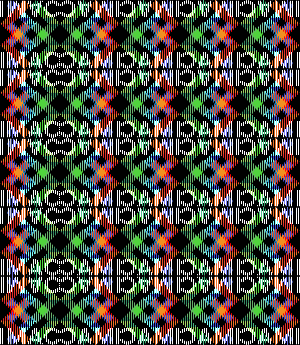
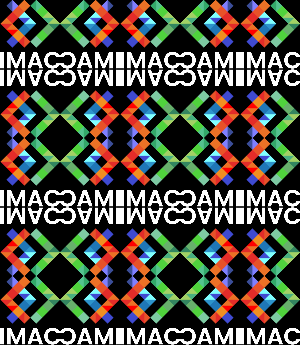
Mercredi

diff --git a/src/main.cpp b/src/main.cpp
@@ -1,5 +1,6 @@
 #include <sil/sil.hpp>
 #include <cmath>
+#include <complex>
 #include "random.hpp"
 
 void makeItGreen(sil::Image& image){
@@ -301,45 +302,233 @@ void mosaiqueMiroir(sil::Image& image, int coef) {
     int counterY{0};
 
     for (int x = 0; x < image.width(); x++) {
+        
+        int x2 = x % width;
+
         for (int y = 0; y < image.height(); y++) {
 
-            int x2 = x % width;
             int y2 = y % height;
             
-            if (counterX % 2 == 0 && counterY%2 == 0) {
-                new_image.pixel(x, y) = image.pixel(x2 * coef, y2 * coef);
+            int real_x = x2 * coef;
+            if (counterX % 2 == 1) {
+                real_x = (width - 1 - x2) * coef;
             }
 
-            else if (counterX %2 != 0 && counterY%2 == 0) {
-                int mirror_x = (width - 1 - x2) * coef;  
-                int mirror_y = y2 * coef;  
-                new_image.pixel(x, y) = image.pixel(mirror_x, mirror_y);
-            }
-            
-            else if (counterX %2 == 0 && counterY%2 != 0){
-                int mirror_x = x2*coef; 
-                int mirror_y = (height - 1 - y2) * coef;  
-                new_image.pixel(x, y) = image.pixel(mirror_x, mirror_y);
-            }
-            
-            else {
-                int mirror_x = (width - 1 - x2) * coef;  
-                int mirror_y = (height - 1 - y2) * coef; 
-                new_image.pixel(x, y) = image.pixel(mirror_x, mirror_y);
+            int real_y = y2 * coef;
+            if(counterY % 2 == 1){
+                real_y = (height - 1 - y2) * coef;
             }
 
-            if (y == height - 1) {
+
+            new_image.pixel(x, y) = image.pixel(real_x, real_y);
+
+            if (y2 == height - 1) {
                 counterY++;
             }
 
-            if(x == width - 1){
-                counterX++;
-            }
         }
+            counterY  = 0;
+            if(x2 == width - 1){
+            counterX++;
+            }
     }
 
     image = new_image;
 }
+
+void glitch(sil::Image& image) {
+
+    int width = image.width();
+    int height = image.height();
+
+    for (int i = 0; i < 100; i++)
+    {
+        //taille du rect
+        int widthRect = random_int(10, 30);
+        int heightRect = random_int(3, 10);
+
+        //position max de X et Y
+        int maxX = width - widthRect;
+        int maxY = height - heightRect;
+
+        //def du point de rect1
+        int x1 = random_int(0, maxX);
+        int y1 = random_int(0, maxY);
+
+        //def du point de rect2
+        int x2 = random_int(0, maxX);
+        int y2 = random_int(0, maxY); 
+
+        //rectangle 1
+        sil::Image rect1 {widthRect,heightRect};
+        //remplissage du rect1
+        for (int i = 0; i < heightRect; i++)
+        {
+            for (int j = 0; j < widthRect; j++)
+            {
+                rect1.pixel(j,i) = image.pixel(x1 + j, y1 + i);
+            }
+            
+        }
+
+        //rectangle 2
+        sil::Image rect2 {widthRect,heightRect};
+        //remplissage du rect2
+        for (int i = 0; i < heightRect; i++)
+        {
+            for (int j = 0; j < widthRect; j++)
+            {
+                rect2.pixel(j,i) = image.pixel(x2 + j, y2 + i);
+            }
+            
+        }
+
+        for (int i = 0; i < heightRect; i++)
+        {
+            for (int j = 0; j < widthRect; j++)
+            {
+                image.pixel(x1 + j,y1 + i)=rect2.pixel(j,i);
+                image.pixel(x2 + j,y2 + i)=rect1.pixel(j,i);
+                
+            }
+            
+        }
+        
+        }
+
+}
+
+struct Lab {float L; float a; float b;};
+struct RGB {float r; float g; float b;};
+
+Lab linear_srgb_to_oklab(RGB c) 
+{
+    float l = 0.4122214708f * c.r + 0.5363325363f * c.g + 0.0514459929f * c.b;
+	float m = 0.2119034982f * c.r + 0.6806995451f * c.g + 0.1073969566f * c.b;
+	float s = 0.0883024619f * c.r + 0.2817188376f * c.g + 0.6299787005f * c.b;
+
+    float l_ = cbrtf(l);
+    float m_ = cbrtf(m);
+    float s_ = cbrtf(s);
+
+    return {
+        0.2104542553f*l_ + 0.7936177850f*m_ - 0.0040720468f*s_,
+        1.9779984951f*l_ - 2.4285922050f*m_ + 0.4505937099f*s_,
+        0.0259040371f*l_ + 0.7827717662f*m_ - 0.8086757660f*s_,
+    };
+}
+
+RGB oklab_to_linear_srgb(Lab c) 
+{
+    float l_ = c.L + 0.3963377774f * c.a + 0.2158037573f * c.b;
+    float m_ = c.L - 0.1055613458f * c.a - 0.0638541728f * c.b;
+    float s_ = c.L - 0.0894841775f * c.a - 1.2914855480f * c.b;
+
+    float l = l_*l_*l_;
+    float m = m_*m_*m_;
+    float s = s_*s_*s_;
+
+    return {
+		+4.0767416621f * l - 3.3077115913f * m + 0.2309699292f * s,
+		-1.2684380046f * l + 2.6097574011f * m - 0.3413193965f * s,
+		-0.0041960863f * l - 0.7034186147f * m + 1.7076147010f * s,
+    };
+}
+
+void colorGradient(sil::Image& image){
+
+RGB color1 = {0.9f, 0.6f, 0.2f};
+RGB color2 = {0.2f, 0.5f, 0.5f};
+
+//RGB TO OKLAB
+Lab labColor1 = linear_srgb_to_oklab(color1);
+Lab labColor2 = linear_srgb_to_oklab(color2);
+
+// float r1 = 0.9f;
+// float r2 = 0.2f;
+
+// float g1 = 0.1f;
+// float g2 = 0.5f;
+
+// float b1 = 0.2f;
+// float b2 = 0.5f;
+
+// glm::vec3 color1 = {r1,g1,b1};
+// glm::vec3 color2 = {r2,g2,b2};
+
+//coef
+float coef_step = 1.0f / image.width();
+float coef = 0.0f;
+
+    for (int x = 0; x < image.width(); x++) {
+        for (int y = 0; y < image.height(); y++) {
+            // Mélange dans l'espace Oklab
+            Lab mixedLab = {
+                labColor1.L + coef * (labColor2.L - labColor1.L),
+                labColor1.a + coef * (labColor2.a - labColor1.a),
+                labColor1.b + coef * (labColor2.b - labColor1.b),
+            };
+
+            // Conversion en sRGB linéaire
+            RGB mixedRGB = oklab_to_linear_srgb(mixedLab);
+
+            // Affectation du pixel (assurez-vous que les valeurs sont dans [0, 1])
+            image.pixel(x, y) = glm::vec3(
+                std::clamp(mixedRGB.r, 0.0f, 1.0f),
+                std::clamp(mixedRGB.g, 0.0f, 1.0f),
+                std::clamp(mixedRGB.b, 0.0f, 1.0f)
+            );
+        }
+
+        // Incrémenter le coefficient pour la prochaine colonne
+        coef += coef_step;
+    }
+}
+
+void fractale(sil::Image& image) {
+
+    int width = image.width();
+    int height = image.height();
+
+    for (int px = 0; px < width; px++) {
+        for (int py = 0; py < height; py++) {
+        
+
+        float x = (px / (float)width) * 4.0f - 2.0f;  // Maps to [-2, 2]
+        float y = (py / (float)height) * 4.0f - 2.0f;
+
+            std::complex<float> c = {x, y};
+            std::complex<float> z = {0, 0};
+
+            int counter = 0;
+
+            while (std::abs(z) <= 2.0f && counter < 1000) {
+            z = z * z + c;
+            counter++;
+}
+
+            float intensity = counter / 10.0f;
+            image.pixel(px, py) = {intensity, intensity, intensity};  // Échelle de gris
+
+            }
+        }
+    }
+
+    void tramage(sil::Image& image) {
+
+        int width = image.width();
+        int height = image.height();
+        
+
+        for (int x = 0; x < image.width(); x++) {
+            for (int y = 0; y < image.height(); y++) {
+                
+            }
+        }
+    }
+
+
+
 
 
 int main()
@@ -430,5 +619,30 @@ int main()
         mosaiqueMiroir(image,5);
         image.save("output/mosaiquemiroir.png");
     }
+
+    {
+        sil::Image image{"images/logo.png"};
+        glitch(image);
+        image.save("output/glitch.png");
+    }
+
+    {
+        sil::Image image{300, 200};
+        colorGradient(image);
+        image.save("output/colorgradient.png");  
+    }
+
+    {
+        sil::Image image{500, 500};
+        fractale(image);
+        image.save("output/fractale.png");  
+    }
+
+    {
+        sil::Image image{"images/photo.jpg"};
+        tramage(image);
+        image.save("output/tramage.jpg");  
+    }
+
     
 }
